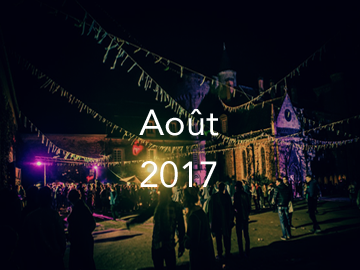
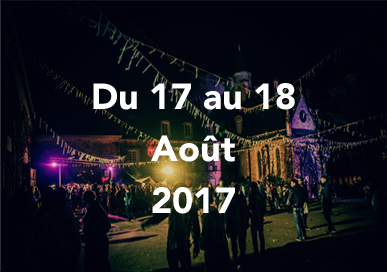
Maj

diff --git a/integration/src/search.css b/integration/src/search.css
@@ -9,7 +9,7 @@ body {
    
 main {
 	width: 60%;
-    height: 100%;
+    height: 100vh;
     background-color: #F0F0F0;
     margin: 0 auto;
 }
@@ -24,16 +24,103 @@ h1 {
     font-weight: lighter;
 }
 
+h2 {
+    font-family: 'Avenir', sans-serif;
+    font-size: 24px;
+    color: #FFF;
+    position: absolute;
+    margin: 0 auto;
+    text-transform: uppercase;
+    
+}
+
+h3 {
+    font-family: 'Avenir', sans-serif;
+    font-size: 14px;
+    color: #767676;
+    padding-top: 2%;
+    font-weight: bolder;
+}
+
+h4 {
+    font-family: 'Avenir', sans-serif;
+    font-size: 14px;
+    color: #dbaa24;
+    font-weight: lighter;
+    line-height: 30px;
+}
+
 hr.top {
     border-color: #dbaa24;
     width: 17.8%;
-    margin-left: 78px;
+    margin-left: 10.1%;
     border-style: double;
-    margin-bottom: 25px;
+    margin-bottom: 5%;
 }
 
-div.search {
+section {
     width: 90%;
-    background-color: #E1E1E1;
+    background: #FFF;
     margin: 0 auto;
+    height: 100px;
+    overflow: hidden;
+    display: flex;
+    flex-direction: row;
+    border-bottom: solid 2px #dbaa24;
+}
+
+
+div.date {
+    background-color: #dbaa24;
+    width: 20%;
+    height: 100%;
+    flex-grow: -1;
+    position: relative;
+    display: flex;
+    flex-direction: column;
+    justify-content: center;
+    align-items: center;
+    flex: 1;
+}
+
+div.result {
+    width: 50%;
+    height: 100%;
+    flex-grow: 2;
+    display: flex;
+    flex-direction: column;
+    justify-content: center;
+    align-items: center;
+    flex: 3;
+    
+}
+
+div.imgresult {
+    background-image: url(../img-content/dantesk.png);
+    width: 20%;
+    opacity: 0.8;
+    flex-grow: 1;
+    background-size: cover;
+    background-position: center center;
+    position: relative;
+    display: flex;
+    flex-direction: column;
+    justify-content: center;
+    align-items: center;
+    flex: 1;
+}
+
+p.pdate {
+    font-family: 'Avenir', sans-serif;
+    font-size: 12px;
+    color: #FFF;
+    text-align: center;
+    position: absolute;
+}
+
+a {
+    font-family: 'Avenir';
+    color: #767676;
+    font-size: 12px;
+    text-decoration: none;
 }

diff --git a/integration/src/info.css b/integration/src/info.css
@@ -16,14 +16,11 @@ main {
 
 h1 {
     font-family: 'Avenir', sans-serif;
-    font-size: 20px;
-    color: #767676;
-    text-align: center;
+    font-size: 40px;
+    color: #FFF;
+    position: absolute;
+    margin: 0 auto;
     text-transform: uppercase;
-    margin-top: 5%;
-    margin-bottom: 5%;
-    letter-spacing: 5px;
-    
 }
 
 h2 {
@@ -108,12 +105,20 @@ article.soon {
     overflow: auto;
 }
 
-img.imgarticle {
-    margin: 3% 3% 0 3%;
-    width: 94%;
+div.imgarticle {
+    background-image: url(../img-content/dantesk.png);
+    width: 100%;
+    height: 200px;
     opacity: 0.8;
-    border-bottom: solid 2px #dbaa24;
-    display: block;
+    flex-grow: 1;
+    background-size: cover;
+    background-position: center center;
+    position: relative;
+    display: flex;
+    flex-direction: column;
+    justify-content: center;
+    align-items: center;
+    margin: 0 auto;
 }
 
 img.imglocation {

diff --git a/integration/search.html b/integration/search.html
@@ -10,8 +10,18 @@
     <h1>Votre recherche</h1>
     <hr class="top">
     
-    <section>
-        <div class="search"><p>search</p></div>
+    <section>   
+        <div class="date">
+            <p class="pdate">00<br>Mois<br>0000</p>
+        </div>
+        <div class="imgresult">
+            <h2>Nom</h2>
+        </div>
+        <div class="result">
+               <h3>Ville (OO), Région</h3>
+               <h4>genre / genre</h4>
+               <a href="">En savoir plus ></a>
+        </div>
     </section>
 
 

diff --git a/integration/info.html b/integration/info.html
@@ -10,8 +10,9 @@
     <h2>Informations</h2>
     <hr class="top">
     <article class="soon">
-            <img src="img-content/img.png" alt="Dantesk" class="imgarticle">
-            <h1>Dantesk</h1>
+            <div class="imgarticle">
+            <h1>Nom</h1>
+            </div>
             <hr class="bottom">
             <div class="txtarticle">
                 <p class="colleft"><img src="img-content/location.png" alt="Location"  class="imglocation">Ville (00), Région</p>

diff --git a/integration/src/index.css b/integration/src/index.css
@@ -8,7 +8,7 @@ body {
 }
 
 header {
-    background-image: url("../img-content/header");
+    background-image: url("../img-content/header.png");
     background-size: cover;
     background-repeat: no-repeat;
     height: 100vh;
